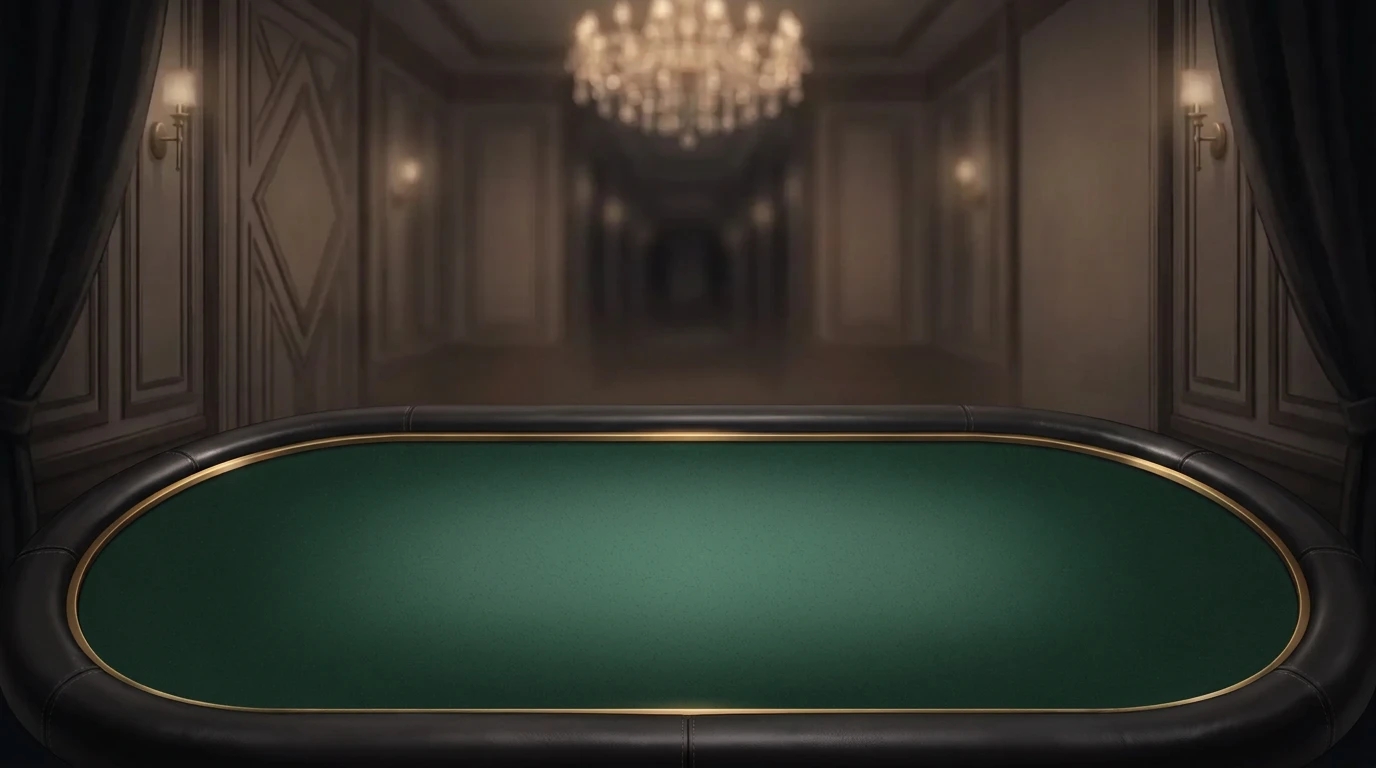
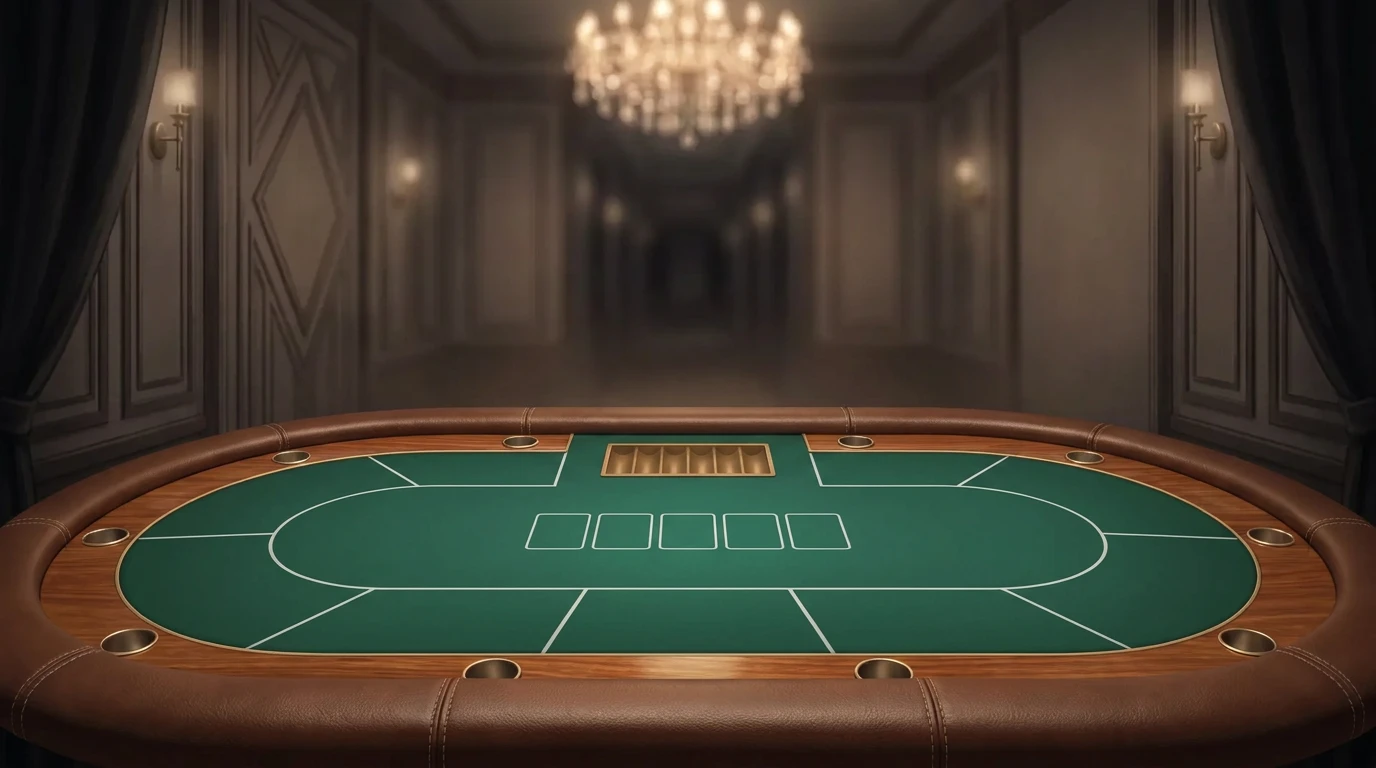
Table: back to the first painted table, board on its printed card boxes
The first generated table (brown leather, wood band, printed lines and
card boxes) is the one we keep. The board now stands on its five printed
boxes and the pot sits in front of the dealer's tray. Felt marks drawn in
perspective (racetrack betting line, house crest) are added for the
code-drawn table only, since painted art brings its own.

Claude-Session: https://claude.ai/code/session_018zFVPf4fEPp1KkpbBxUonq

diff --git a/web/src/stage/painter.ts b/web/src/stage/painter.ts
@@ -270,9 +270,10 @@ export function paintTableMask(w: number, h: number): HTMLCanvasElement {
   return c;
 }
 
-/** The racetrack table: a padded black leather rail with stitching, a brass inlay,
- *  dark green felt lit by a pool of light over the board, and a betting line. */
-export function paintTable(w: number, h: number, plain = false): HTMLCanvasElement {
+/** The racetrack table: a padded black leather rail with stitching, a brass inlay and
+ *  dark green felt lit by a pool of light over the board. Printed marks come separately
+ *  (paintTableMarks), so they also go over painted table art. */
+export function paintTable(w: number, h: number): HTMLCanvasElement {
   const [c, g] = canvas(w, h);
   const outer = tableOutline(0);
   const inner = tableOutline(TABLE.rail);
@@ -352,18 +353,75 @@ export function paintTable(w: number, h: number, plain = false): HTMLCanvasEleme
   g.filter = 'none';
   g.restore();
 
-  // the painting guide (docs/11 §4.3) leaves out the printed marks
-  if (plain) return c;
+  return c;
+}
 
-  // betting line: a smaller racetrack, double
-  g.strokeStyle = rgba(PAL.beige, 0.4);
-  g.lineWidth = 2;
-  outlinePath(g, tableOutline(0.5));
-  g.stroke();
-  g.strokeStyle = rgba(PAL.beige, 0.18);
+/** What is printed on the felt, in the table's perspective: a double racetrack betting
+ *  line and the house crest in the middle (a ring with the four suits around the name),
+ *  all in matte brass ink. Transparent elsewhere; drawn over either kind of table. */
+export function paintTableMarks(w: number, h: number): HTMLCanvasElement {
+  const [c, g] = canvas(w, h);
+  const ink = (a: number) => `rgba(216,195,154,${a})`;
+  const path = (pts: number[]) => {
+    outlinePath(g, pts);
+    g.stroke();
+  };
+  const circle = (r: number) => {
+    const pts: number[] = [];
+    for (let i = 0; i <= 64; i++) {
+      const t = (i / 64) * Math.PI * 2;
+      pts.push(...tableToScreen(Math.cos(t) * r, TABLE.zc + Math.sin(t) * r));
+    }
+    return pts;
+  };
+
+  // betting line
+  g.strokeStyle = ink(0.42);
+  g.lineWidth = 2.2;
+  path(tableOutline(0.5));
+  g.strokeStyle = ink(0.2);
   g.lineWidth = 1.2;
-  outlinePath(g, tableOutline(0.53));
-  g.stroke();
+  path(tableOutline(0.535));
+
+  // crest rings
+  g.strokeStyle = ink(0.32);
+  g.lineWidth = 2;
+  path(circle(0.5));
+  g.strokeStyle = ink(0.18);
+  g.lineWidth = 1.2;
+  path(circle(0.47));
+  path(circle(0.3));
+
+  // lettering and suits, squashed to lie on the felt (the projection's local aspect at
+  // the centre; the crest is small enough that the affine approximation holds)
+  const squash = TABLE.F / (TABLE.f * TABLE.zc);
+  const flat = (x: number, z: number, draw: () => void) => {
+    const [sx, sy] = tableToScreen(x, z);
+    const k = TABLE.f / z / (TABLE.f / TABLE.zc);
+    g.save();
+    g.translate(sx, sy);
+    g.scale(k, k * squash);
+    draw();
+    g.restore();
+  };
+  g.textAlign = 'center';
+  g.textBaseline = 'middle';
+  flat(0, TABLE.zc, () => {
+    g.fillStyle = ink(0.34);
+    g.font = 'italic 700 58px Georgia, "Noto Serif SC", serif';
+    g.fillText('HOLD\u2019EM', 0, -8);
+    g.fillStyle = ink(0.24);
+    g.font = '600 17px Georgia, serif';
+    g.fillText('M I N D   G A M E S', 0, 40);
+  });
+  const suits: [string, number][] = [['\u2660', -Math.PI / 2], ['\u2665', 0], ['\u2663', Math.PI / 2], ['\u2666', Math.PI]];
+  for (const [glyph, t] of suits) {
+    flat(Math.cos(t) * 0.4, TABLE.zc + Math.sin(t) * 0.4, () => {
+      g.fillStyle = ink(0.3);
+      g.font = '30px Georgia, "Noto Serif SC", serif';
+      g.fillText(glyph, 0, 0);
+    });
+  }
   return c;
 }
 

diff --git a/web/src/stage/TableStage.ts b/web/src/stage/TableStage.ts
@@ -10,7 +10,7 @@ import type { Post } from '../fx/post';
 import { CardSprite } from '../table/CardSprite';
 import { BOARD_CARD, BOARD_X, BOARD_Y, FONT_DISPLAY, FONT_NUM, POT_POS, type Point, SHOE, SPOTS, fmt } from '../table/layout';
 import { animate, ease, tween, wait } from '../tween';
-import { PAL, paintBeam, paintForeground, paintTable, paintTableMask, type Pose } from './painter';
+import { PAL, paintBeam, paintForeground, paintTable, paintTableMarks, paintTableMask, type Pose } from './painter';
 import { Seat, chipStack } from './Seat';
 
 export interface StageDeps {
@@ -67,7 +67,8 @@ export class TableStage extends Container {
       table.mask = mask;
       this.tableLayer.addChild(table, mask);
     } else {
-      this.tableLayer.addChild(new Sprite(paintTableTexture()));
+      // the code-drawn table gets its printed marks here; painted art has its own
+      this.tableLayer.addChild(new Sprite(paintTableTexture()), new Sprite(paintTableMarksTexture()));
     }
 
     // Opponents sit behind the table (far ones first so near ones overlap them).
@@ -476,6 +477,11 @@ let fgTex: Texture | null = null;
 function paintTableTexture(): Texture {
   tableTex ??= Texture.from(paintTable(1920, 1080));
   return tableTex;
+}
+let marksTex: Texture | null = null;
+function paintTableMarksTexture(): Texture {
+  marksTex ??= Texture.from(paintTableMarks(1920, 1080));
+  return marksTex;
 }
 let beamTex: Texture | null = null;
 function paintBeamTexture(): Texture {

diff --git a/web/src/table/layout.ts b/web/src/table/layout.ts
@@ -35,10 +35,12 @@ export const SPOTS: SeatSpot[] = [
 ];
 
 export const SHOE: Point = { x: 960, y: 520 };          // where the dealer deals from
-export const POT_POS: Point = { x: 960, y: 690 };
-export const BOARD_Y = 782;
-export const BOARD_X = [740, 850, 960, 1070, 1180];
-export const BOARD_CARD = { w: 96, h: 134 };
+// The board stands on the five card boxes printed on the table art (centres measured
+// from backgrounds/table-top); the pot sits in front of the dealer's tray, as on a real table.
+export const POT_POS: Point = { x: 960, y: 652 };
+export const BOARD_Y = 738;
+export const BOARD_X = [781, 871, 960, 1050, 1139];
+export const BOARD_CARD = { w: 86, h: 120 };
 export const HERO_CARD = { w: 200, h: 280 };
 export const OPP_CARD = { w: 60, h: 84 };
 
